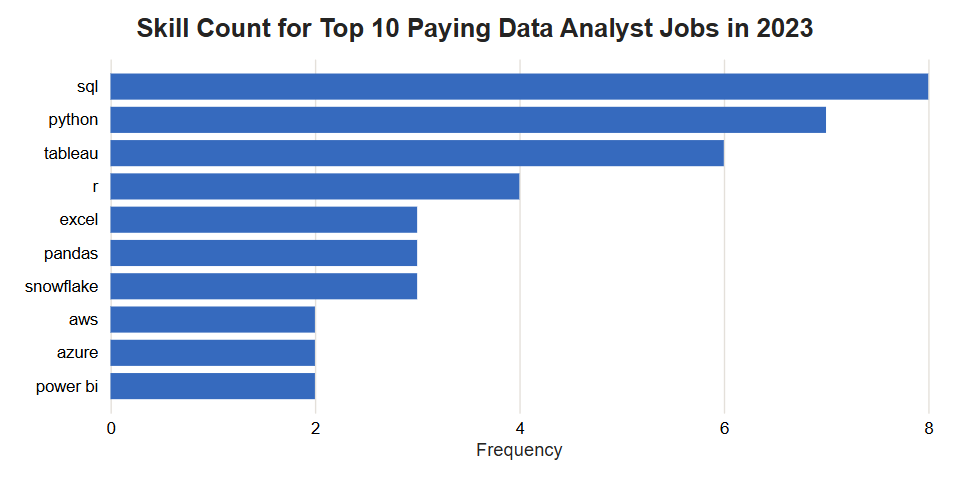
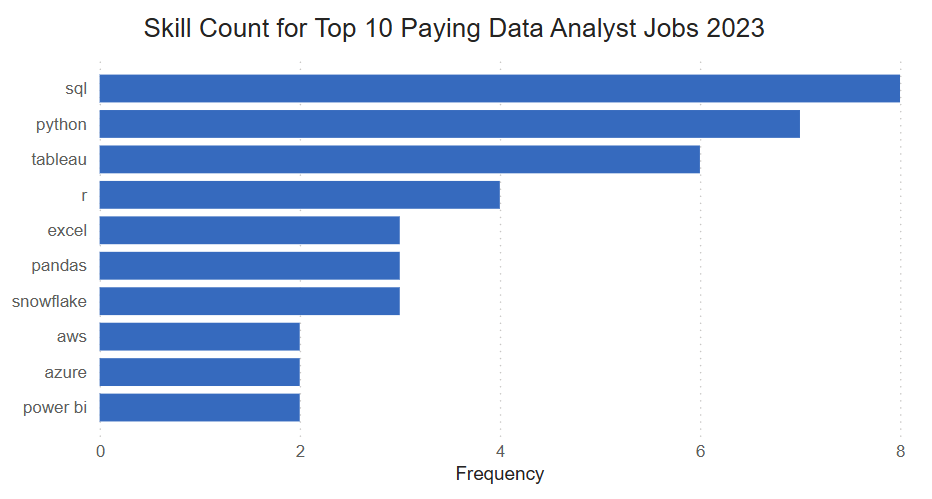
Asset changes

diff --git a/README.md b/README.md
@@ -23,7 +23,7 @@ To dive into the Data Analyst job market, I've learned to use the following tool
 - **Postgres** - the chosen database management system, ideal for handling job posting data.
 - **Visual Studio Code** - code editor for executing SQL queries.
 - **Github / Git** - for version control and for sharing the SQL queries and analysis online.
-- **Google Sheets** - web-based spreadsheet to create visual insights through the use of graphs.
+- **Power BI** - desktop application to create visual insights through the use of graphs.
 
 
 # The Analysis
@@ -57,7 +57,7 @@ Here's the breakdown of the top Data Analyst jobs in 2023:
 - Data analysis and leadership roles remain in high demand, with positions posted throughout 2023.
 
 ![Top Paying Roles](project_sql\Assets\salary_top_10_jobs.png)
-*Bar graph visualizing the salaries from the top 10 Data Analyst roles created through LibreOffice Calc.
+*Bar graph visualizing the salaries from the top 10 Data Analyst roles created through Power BI.
 
 ### 2. Skills required for these top-paying jobs
 To identify the skills associated with the top paying jobs for Data Analytics in 2023, I joined the job postings with the skills data, providing insights as to what employers value for high compensation roles. 
